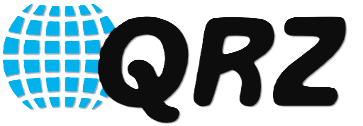
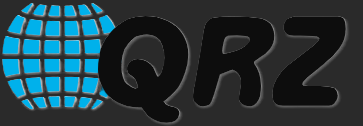
V1.1.2

diff --git a/style.css b/style.css
@@ -55,14 +55,14 @@ h1 { margin: 0; color: #fff; font-size: 24px; letter-spacing: 1px; }
 #nt-callsign { font-weight: bold; color: #4CAF50; font-size: 14px; }
 #nt-sw { color: #666; font-size: 10px; }
 
-.nt-body { padding: 10px; padding-bottom: 32px; /* Miejsce na logo QRZ */ }
+.nt-body { padding: 10px; padding-bottom: 32px; }
 .nt-row { margin-bottom: 6px; display: flex; flex-direction: column; }
 .nt-row:last-child { margin-bottom: 0; }
 .nt-label { color: #888; font-size: 10px; text-transform: uppercase; margin-bottom: 2px; }
 .nt-val { color: #ddd; font-weight: 500; word-break: break-word; }
 .nt-val.hl { color: #FF9800; font-weight: bold; }
 
-/* QRZ LOGO */
+/* QRZ LOGO - Tylko wizualnie, bez klikania */
 .qrz-logo-container {
     position: absolute;
     bottom: 8px;
@@ -82,12 +82,7 @@ h1 { margin: 0; color: #fff; font-size: 24px; letter-spacing: 1px; }
 }
 
 .qrz-logo-container:hover {
-    transform: scale(1.2) rotate(-2deg);
-    cursor: pointer;
-}
-
-.qrz-logo-container:hover .qrz-img {
-    filter: drop-shadow(0 5px 8px rgba(0,0,0,0.7));
+    transform: scale(1.1); /* Lekkie powiększenie dla efektu */
 }
 
 .dtmf-columns { display: grid; grid-template-columns: 1fr 1fr; gap: 20px; }

diff --git a/script.js b/script.js
@@ -199,7 +199,8 @@ function updateNodes() {
                 var isMe = (call === myCall);
                 var cssClass = isMe ? "node-item is-me" : "node-item";
                 
-                html += `<div class="${cssClass}" onmouseenter="showTooltip(event, '${call}')" onmouseleave="hideTooltip()" onmousemove="moveTooltip(event)">
+                // ZMIANA: Dodano onclick otwierajacy QRZ w nowej karcie
+                html += `<div class="${cssClass}" onclick="window.open('https://www.qrz.com/db/${call}', '_blank')" onmouseenter="showTooltip(event, '${call}')" onmouseleave="hideTooltip()" onmousemove="moveTooltip(event)">
                             <span class="node-icon">📻</span>
                             <span class="node-name">${call}</span>
                          </div>`;
@@ -235,9 +236,6 @@ function showTooltip(e, callsign) {
     $("#nt-loc").text(location);
     
     $("#nt-ver").text(info.projVer || "---");
-
-    // PODMIANA LINKU DLA QRZ
-    $("#nt-qrz-btn").attr("href", "https://www.qrz.com/db/" + callsign);
 
     tooltip.style.display = 'block';
     moveTooltip(e);

diff --git a/tab_nodes.php b/tab_nodes.php
@@ -21,9 +21,9 @@
             <span class="nt-val" id="nt-ver">---</span>
         </div>
         
-        <a id="nt-qrz-btn" href="#" target="_blank" class="qrz-logo-container" title="Zobacz na QRZ.com">
-            <img src="qrz.png" alt="QRZ.com" class="qrz-img">
-        </a>
+        <div class="qrz-logo-container">
+            <img src="qrz.png" alt="QRZ" class="qrz-img">
+        </div>
     </div>
 </div>
 
